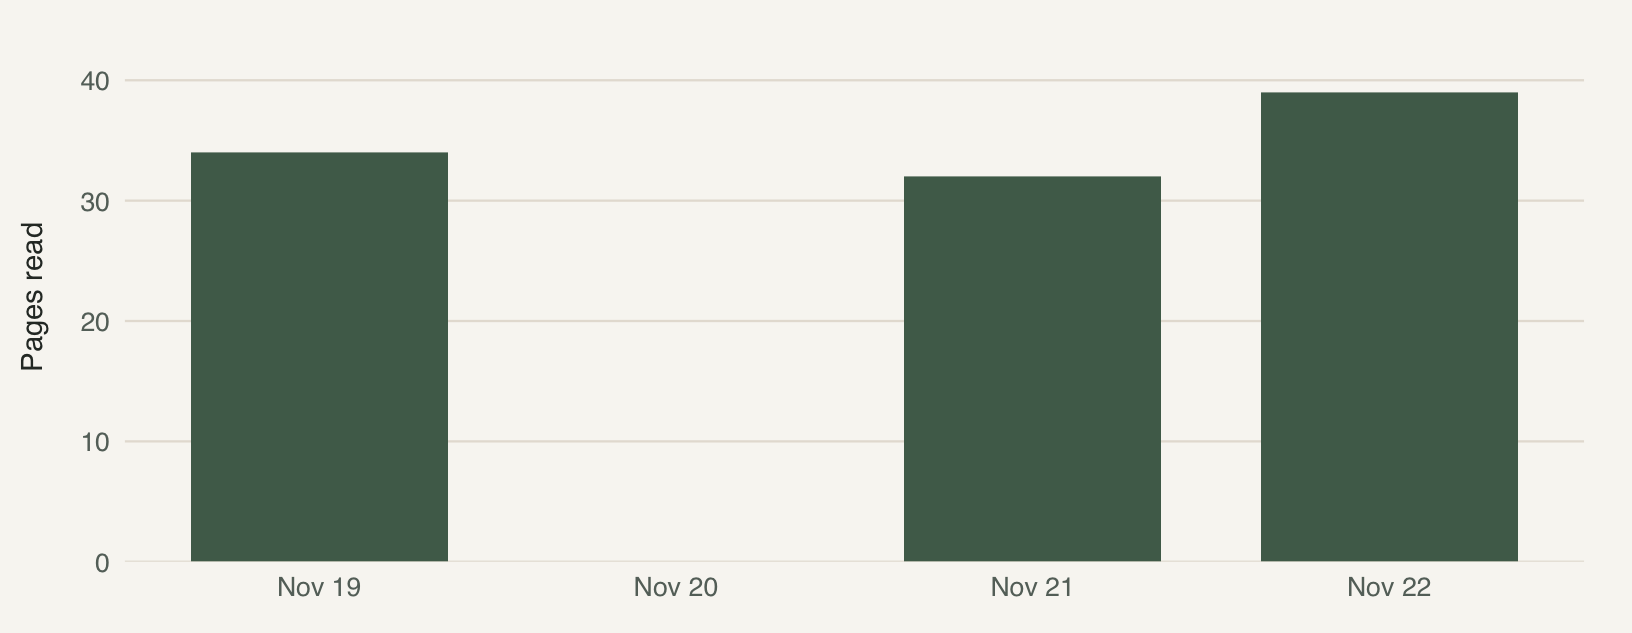
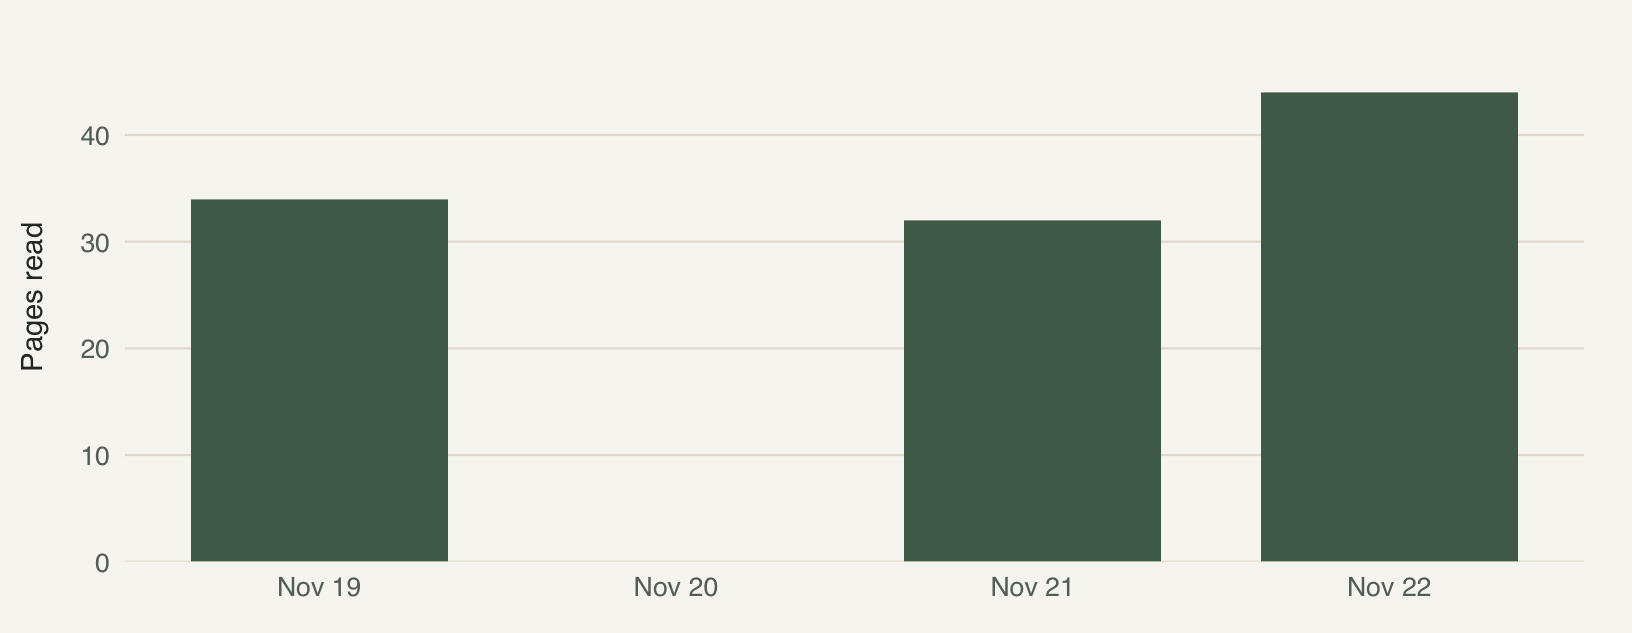
Built site for gh-pages

diff --git a/library.html b/library.html
@@ -339,8 +339,8 @@ ul.task-list li input[type="checkbox"] {
 <div class="library-page">
 <div class="cell">
 <div class="cell-output-display">
-<div class="datatables html-widget html-fill-item" id="htmlwidget-249f2f8f6ac6c6e7adef" style="width:100%;height:auto;"></div>
-<script type="application/json" data-for="htmlwidget-249f2f8f6ac6c6e7adef">{"x":{"filter":"none","vertical":false,"data":[["<a href=\"books/lavalee-des-avales.html\" class=\"library-book-link\">\n  <img src=\"https://covers.openlibrary.org/b/id/967591-M.jpg\" alt=\"Cover of L&#39;avalée des avalés\" class=\"library-cover\" loading=\"lazy\"/>\n  <span class=\"library-book-title\">L'avalée des avalés<\/span>\n<\/a>","<a href=\"books/volkswagen-blues.html\" class=\"library-book-link\">\n  <img src=\"https://covers.openlibrary.org/b/id/10820587-M.jpg\" alt=\"Cover of Volkswagen Blues\" class=\"library-cover\" loading=\"lazy\"/>\n  <span class=\"library-book-title\">Volkswagen Blues<\/span>\n<\/a>","<a href=\"books/B004.html\" class=\"library-book-link\">\n  <img src=\"https://covers.openlibrary.org/b/id/452472-M.jpg\" alt=\"Cover of The Argumentative Indian: Writings on Indian History, Culture and Identity\" class=\"library-cover\" loading=\"lazy\"/>\n  <span class=\"library-book-title\">The Argumentative Indian: Writings on Indian History, Culture and Identity<\/span>\n<\/a>","<a href=\"books/B003.html\" class=\"library-book-link\">\n  <img src=\"https://covers.openlibrary.org/b/id/6601656-M.jpg\" alt=\"Cover of Silence\" class=\"library-cover\" loading=\"lazy\"/>\n  <span class=\"library-book-title\">Silence<\/span>\n<\/a>"],["Réjean Ducharme","Jacques Poulin","Amartya Sen","Shūsaku Endō"],[343,221,432,256],["<span class=\"library-status library-status--reading\">Reading<\/span>","<span class=\"library-status library-status--finished\">Finished<\/span>","<span class=\"library-status library-status--finished\">Finished<\/span>","<span class=\"library-status library-status--finished\">Finished<\/span>"],["2026-11-19","2026-10-30","2026-09-26","2026-09-12"],["—","2026-11-18","2026-10-28","2026-09-25"]],"container":"<table class=\"hover\">\n  <thead>\n    <tr>\n      <th>Book<\/th>\n      <th>Author<\/th>\n      <th>Pages<\/th>\n      <th>Status<\/th>\n      <th>Date Started<\/th>\n      <th>Date Finished<\/th>\n    <\/tr>\n  <\/thead>\n<\/table>","options":{"pageLength":10,"lengthChange":true,"lengthMenu":[[10,15,25,50,100,-1],["10","15","25","50","100","All"]],"order":[],"autoWidth":false,"scrollX":true,"language":{"search":"Search books:","emptyTable":"No books recorded yet."},"columnDefs":[{"className":"dt-right","targets":2},{"name":"Book","targets":0},{"name":"Author","targets":1},{"name":"Pages","targets":2},{"name":"Status","targets":3},{"name":"Date Started","targets":4},{"name":"Date Finished","targets":5}],"orderClasses":false}},"evals":[],"jsHooks":[]}</script>
+<div class="datatables html-widget html-fill-item" id="htmlwidget-fa1062c17ee3f617b449" style="width:100%;height:auto;"></div>
+<script type="application/json" data-for="htmlwidget-fa1062c17ee3f617b449">{"x":{"filter":"none","vertical":false,"data":[["<a href=\"books/lavalee-des-avales.html\" class=\"library-book-link\">\n  <img src=\"https://covers.openlibrary.org/b/id/967591-M.jpg\" alt=\"Cover of L&#39;avalée des avalés\" class=\"library-cover\" loading=\"lazy\"/>\n  <span class=\"library-book-title\">L'avalée des avalés<\/span>\n<\/a>","<a href=\"books/volkswagen-blues.html\" class=\"library-book-link\">\n  <img src=\"https://covers.openlibrary.org/b/id/10820587-M.jpg\" alt=\"Cover of Volkswagen Blues\" class=\"library-cover\" loading=\"lazy\"/>\n  <span class=\"library-book-title\">Volkswagen Blues<\/span>\n<\/a>","<a href=\"books/B004.html\" class=\"library-book-link\">\n  <img src=\"https://covers.openlibrary.org/b/id/452472-M.jpg\" alt=\"Cover of The Argumentative Indian: Writings on Indian History, Culture and Identity\" class=\"library-cover\" loading=\"lazy\"/>\n  <span class=\"library-book-title\">The Argumentative Indian: Writings on Indian History, Culture and Identity<\/span>\n<\/a>","<a href=\"books/B003.html\" class=\"library-book-link\">\n  <img src=\"https://covers.openlibrary.org/b/id/6601656-M.jpg\" alt=\"Cover of Silence\" class=\"library-cover\" loading=\"lazy\"/>\n  <span class=\"library-book-title\">Silence<\/span>\n<\/a>"],["Réjean Ducharme","Jacques Poulin","Amartya Sen","Shūsaku Endō"],[343,221,432,256],["<span class=\"library-status library-status--reading\">Reading<\/span>","<span class=\"library-status library-status--finished\">Finished<\/span>","<span class=\"library-status library-status--finished\">Finished<\/span>","<span class=\"library-status library-status--finished\">Finished<\/span>"],["2026-11-19","2026-10-30","2026-09-26","2026-09-12"],["—","2026-11-18","2026-10-28","2026-09-25"]],"container":"<table class=\"hover\">\n  <thead>\n    <tr>\n      <th>Book<\/th>\n      <th>Author<\/th>\n      <th>Pages<\/th>\n      <th>Status<\/th>\n      <th>Date Started<\/th>\n      <th>Date Finished<\/th>\n    <\/tr>\n  <\/thead>\n<\/table>","options":{"pageLength":10,"lengthChange":true,"lengthMenu":[[10,15,25,50,100,-1],["10","15","25","50","100","All"]],"order":[],"autoWidth":false,"scrollX":true,"language":{"search":"Search books:","emptyTable":"No books recorded yet."},"columnDefs":[{"className":"dt-right","targets":2},{"name":"Book","targets":0},{"name":"Author","targets":1},{"name":"Pages","targets":2},{"name":"Status","targets":3},{"name":"Date Started","targets":4},{"name":"Date Finished","targets":5}],"orderClasses":false}},"evals":[],"jsHooks":[]}</script>
 </div>
 </div>
 </div>
@@ -351,8 +351,8 @@ ul.task-list li input[type="checkbox"] {
 <div class="library-page">
 <div class="cell">
 <div class="cell-output-display">
-<div class="datatables html-widget html-fill-item" id="htmlwidget-7fd26d149c20f1b8e282" style="width:100%;height:auto;"></div>
-<script type="application/json" data-for="htmlwidget-7fd26d149c20f1b8e282">{"x":{"filter":"none","vertical":false,"data":[["<div class=\"library-book-link\">\n  <img src=\"images/9780374608422.jpg.avif\" alt=\"Cover of Annihilation\" class=\"library-cover\" loading=\"lazy\"/>\n  <span class=\"library-book-title\">Annihilation<\/span>\n<\/div>","<div class=\"library-book-link\">\n  <img src=\"https://covers.openlibrary.org/b/id/5722548-M.jpg\" alt=\"Cover of Brooklyn\" class=\"library-cover\" loading=\"lazy\"/>\n  <span class=\"library-book-title\">Brooklyn<\/span>\n<\/div>","<div class=\"library-book-link\">\n  <img src=\"https://covers.openlibrary.org/b/id/12661723-M.jpg\" alt=\"Cover of Cry, the Beloved Country\" class=\"library-cover\" loading=\"lazy\"/>\n  <span class=\"library-book-title\">Cry, the Beloved Country<\/span>\n<\/div>","<div class=\"library-book-link\">\n  <img src=\"https://covers.openlibrary.org/b/id/10096955-M.jpg\" alt=\"Cover of The Cold Millions\" class=\"library-cover\" loading=\"lazy\"/>\n  <span class=\"library-book-title\">The Cold Millions<\/span>\n<\/div>","<div class=\"library-book-link\">\n  <img src=\"https://covers.openlibrary.org/b/id/156399-M.jpg\" alt=\"Cover of The Gay Place\" class=\"library-cover\" loading=\"lazy\"/>\n  <span class=\"library-book-title\">The Gay Place<\/span>\n<\/div>","<div class=\"library-book-link\">\n  <img src=\"https://covers.openlibrary.org/b/id/7401807-M.jpg\" alt=\"Cover of The Sailor Who Fell from Grace with the Sea\" class=\"library-cover\" loading=\"lazy\"/>\n  <span class=\"library-book-title\">The Sailor Who Fell from Grace with the Sea<\/span>\n<\/div>","<div class=\"library-book-link\">\n  <img src=\"https://covers.openlibrary.org/b/id/914747-M.jpg\" alt=\"Cover of What We Talk About When We Talk About Love\" class=\"library-cover\" loading=\"lazy\"/>\n  <span class=\"library-book-title\">What We Talk About When We Talk About Love<\/span>\n<\/div>"],["Michel Houellebecq","Colm Tóibín","Alan Paton","Jess Walter","Billy Lee Brammer","Yukio Mishima","Raymond Carver"]],"container":"<table class=\"hover\">\n  <thead>\n    <tr>\n      <th>Book<\/th>\n      <th>Author<\/th>\n    <\/tr>\n  <\/thead>\n<\/table>","options":{"pageLength":10,"lengthChange":true,"lengthMenu":[[10,15,25,50,100,-1],["10","15","25","50","100","All"]],"order":[],"autoWidth":false,"scrollX":true,"language":{"search":"Search wishlist:","emptyTable":"No books on the wishlist yet."},"columnDefs":[{"name":"Book","targets":0},{"name":"Author","targets":1}],"orderClasses":false}},"evals":[],"jsHooks":[]}</script>
+<div class="datatables html-widget html-fill-item" id="htmlwidget-c52c94c009923d69f34b" style="width:100%;height:auto;"></div>
+<script type="application/json" data-for="htmlwidget-c52c94c009923d69f34b">{"x":{"filter":"none","vertical":false,"data":[["<div class=\"library-book-link\">\n  <img src=\"images/9780374608422.jpg.avif\" alt=\"Cover of Annihilation\" class=\"library-cover\" loading=\"lazy\"/>\n  <span class=\"library-book-title\">Annihilation<\/span>\n<\/div>","<div class=\"library-book-link\">\n  <img src=\"https://covers.openlibrary.org/b/id/5722548-M.jpg\" alt=\"Cover of Brooklyn\" class=\"library-cover\" loading=\"lazy\"/>\n  <span class=\"library-book-title\">Brooklyn<\/span>\n<\/div>","<div class=\"library-book-link\">\n  <img src=\"https://covers.openlibrary.org/b/id/12661723-M.jpg\" alt=\"Cover of Cry, the Beloved Country\" class=\"library-cover\" loading=\"lazy\"/>\n  <span class=\"library-book-title\">Cry, the Beloved Country<\/span>\n<\/div>","<div class=\"library-book-link\">\n  <img src=\"https://covers.openlibrary.org/b/id/10096955-M.jpg\" alt=\"Cover of The Cold Millions\" class=\"library-cover\" loading=\"lazy\"/>\n  <span class=\"library-book-title\">The Cold Millions<\/span>\n<\/div>","<div class=\"library-book-link\">\n  <img src=\"https://covers.openlibrary.org/b/id/156399-M.jpg\" alt=\"Cover of The Gay Place\" class=\"library-cover\" loading=\"lazy\"/>\n  <span class=\"library-book-title\">The Gay Place<\/span>\n<\/div>","<div class=\"library-book-link\">\n  <img src=\"https://covers.openlibrary.org/b/id/7401807-M.jpg\" alt=\"Cover of The Sailor Who Fell from Grace with the Sea\" class=\"library-cover\" loading=\"lazy\"/>\n  <span class=\"library-book-title\">The Sailor Who Fell from Grace with the Sea<\/span>\n<\/div>","<div class=\"library-book-link\">\n  <img src=\"https://covers.openlibrary.org/b/id/914747-M.jpg\" alt=\"Cover of What We Talk About When We Talk About Love\" class=\"library-cover\" loading=\"lazy\"/>\n  <span class=\"library-book-title\">What We Talk About When We Talk About Love<\/span>\n<\/div>"],["Michel Houellebecq","Colm Tóibín","Alan Paton","Jess Walter","Billy Lee Brammer","Yukio Mishima","Raymond Carver"]],"container":"<table class=\"hover\">\n  <thead>\n    <tr>\n      <th>Book<\/th>\n      <th>Author<\/th>\n    <\/tr>\n  <\/thead>\n<\/table>","options":{"pageLength":10,"lengthChange":true,"lengthMenu":[[10,15,25,50,100,-1],["10","15","25","50","100","All"]],"order":[],"autoWidth":false,"scrollX":true,"language":{"search":"Search wishlist:","emptyTable":"No books on the wishlist yet."},"columnDefs":[{"name":"Book","targets":0},{"name":"Author","targets":1}],"orderClasses":false}},"evals":[],"jsHooks":[]}</script>
 </div>
 </div>
 </div>

diff --git a/pages.html b/pages.html
@@ -338,8 +338,8 @@ ul.task-list li input[type="checkbox"] {
 <div class="reading-log-page">
 <div class="cell">
 <div class="cell-output-display">
-<div class="datatables html-widget html-fill-item" id="htmlwidget-03a82586050a335762de" style="width:100%;height:auto;"></div>
-<script type="application/json" data-for="htmlwidget-03a82586050a335762de">{"x":{"filter":"none","vertical":false,"data":[["2026-11-22","2026-11-21","2026-11-20","2026-11-19"],["<a href=\"books/lavalee-des-avales.html\" class=\"log-book-link\">L'avalée des avalés<\/a>","<a href=\"books/lavalee-des-avales.html\" class=\"log-book-link\">L'avalée des avalés<\/a>","<span class=\"log-unrecorded\">No entry recorded<\/span>","<a href=\"books/lavalee-des-avales.html\" class=\"log-book-link\">L'avalée des avalés<\/a>"],[39,32,null,34],[105,66,null,34]],"container":"<table class=\"hover\">\n  <thead>\n    <tr>\n      <th>Date<\/th>\n      <th>Book<\/th>\n      <th>Pages Read<\/th>\n      <th>Page Reached<\/th>\n    <\/tr>\n  <\/thead>\n<\/table>","options":{"pageLength":15,"lengthChange":true,"lengthMenu":[[10,15,25,50,100,-1],["10","15","25","50","100","All"]],"searching":true,"ordering":true,"order":[[0,"desc"]],"autoWidth":false,"scrollX":true,"language":{"search":"Search log:","emptyTable":"No reading entries yet."},"columnDefs":[{"className":"dt-right","targets":[2,3]},{"name":"Date","targets":0},{"name":"Book","targets":1},{"name":"Pages Read","targets":2},{"name":"Page Reached","targets":3}],"orderClasses":false}},"evals":[],"jsHooks":[]}</script>
+<div class="datatables html-widget html-fill-item" id="htmlwidget-f14a2a12c35724aca9db" style="width:100%;height:auto;"></div>
+<script type="application/json" data-for="htmlwidget-f14a2a12c35724aca9db">{"x":{"filter":"none","vertical":false,"data":[["2026-11-22","2026-11-21","2026-11-20","2026-11-19"],["<a href=\"books/lavalee-des-avales.html\" class=\"log-book-link\">L'avalée des avalés<\/a>","<a href=\"books/lavalee-des-avales.html\" class=\"log-book-link\">L'avalée des avalés<\/a>","<span class=\"log-unrecorded\">No entry recorded<\/span>","<a href=\"books/lavalee-des-avales.html\" class=\"log-book-link\">L'avalée des avalés<\/a>"],[44,32,null,34],[110,66,null,34]],"container":"<table class=\"hover\">\n  <thead>\n    <tr>\n      <th>Date<\/th>\n      <th>Book<\/th>\n      <th>Pages Read<\/th>\n      <th>Page Reached<\/th>\n    <\/tr>\n  <\/thead>\n<\/table>","options":{"pageLength":15,"lengthChange":true,"lengthMenu":[[10,15,25,50,100,-1],["10","15","25","50","100","All"]],"searching":true,"ordering":true,"order":[[0,"desc"]],"autoWidth":false,"scrollX":true,"language":{"search":"Search log:","emptyTable":"No reading entries yet."},"columnDefs":[{"className":"dt-right","targets":[2,3]},{"name":"Date","targets":0},{"name":"Book","targets":1},{"name":"Pages Read","targets":2},{"name":"Page Reached","targets":3}],"orderClasses":false}},"evals":[],"jsHooks":[]}</script>
 </div>
 </div>
 </div>

diff --git a/index.html b/index.html
@@ -335,7 +335,7 @@ ul.task-list li input[type="checkbox"] {
 <p>Books completed</p>
 </section>
 <section id="section-2" class="level3 reading-stat">
-<h3 class="anchored" data-anchor-id="section-2">105</h3>
+<h3 class="anchored" data-anchor-id="section-2">110</h3>
 <p>Pages logged</p>
 </section>
 </div>
@@ -358,10 +358,10 @@ ul.task-list li input[type="checkbox"] {
 </h3>
 <p class="book-card-author">Réjean Ducharme</p>
 <div class="book-progress">
-<div class="book-progress-track" role="progressbar" aria-label="Reading progress for L'avalée des avalés" aria-valuenow="30.6" aria-valuemin="0" aria-valuemax="100">
-<div class="book-progress-fill" style="width: 30.6%;"></div>
+<div class="book-progress-track" role="progressbar" aria-label="Reading progress for L'avalée des avalés" aria-valuenow="32.1" aria-valuemin="0" aria-valuemax="100">
+<div class="book-progress-fill" style="width: 32.1%;"></div>
 </div>
-<p class="book-progress-label">Page 105 of 343 · 30.6%</p>
+<p class="book-progress-label">Page 110 of 343 · 32.1%</p>
 </div>
 </div>
 </article>

diff --git a/statistics.html b/statistics.html
@@ -338,7 +338,7 @@ ul.task-list li input[type="checkbox"] {
 <p>Pages in completed books</p>
 </section>
 <section id="section-3" class="level3 stats-summary-card">
-<h3 class="anchored" data-anchor-id="section-3">105</h3>
+<h3 class="anchored" data-anchor-id="section-3">110</h3>
 <p>Pages logged by date</p>
 </section>
 </div>
@@ -351,11 +351,11 @@ ul.task-list li input[type="checkbox"] {
 <p>Days with logged reading</p>
 </section>
 <section id="section-5" class="level3 stats-average-card">
-<h3 class="anchored" data-anchor-id="section-5">26.2</h3>
+<h3 class="anchored" data-anchor-id="section-5">27.5</h3>
 <p>Avg. pages per calendar day</p>
 </section>
 <section id="section-6" class="level3 stats-average-card">
-<h3 class="anchored" data-anchor-id="section-6">35</h3>
+<h3 class="anchored" data-anchor-id="section-6">36.7</h3>
 <p>Avg. pages per reading day</p>
 </section>
 </div>

diff --git a/books/lavalee-des-avales.html b/books/lavalee-des-avales.html
@@ -347,11 +347,11 @@ ul.task-list li input[type="checkbox"] {
 </div>
 <div class="book-detail-field">
 <dt>Last recorded page</dt>
-<dd>105</dd>
+<dd>110</dd>
 </div>
 <div class="book-detail-field">
 <dt>Reading progress</dt>
-<dd>30.6%</dd>
+<dd>32.1%</dd>
 </div>
 </dl>
 </div>
@@ -388,8 +388,8 @@ ul.task-list li input[type="checkbox"] {
 </tr>
 <tr class="odd">
 <td style="text-align: left;">2026-11-22</td>
-<td style="text-align: right;">39</td>
-<td style="text-align: right;">105</td>
+<td style="text-align: right;">44</td>
+<td style="text-align: right;">110</td>
 </tr>
 </tbody>
 </table>
